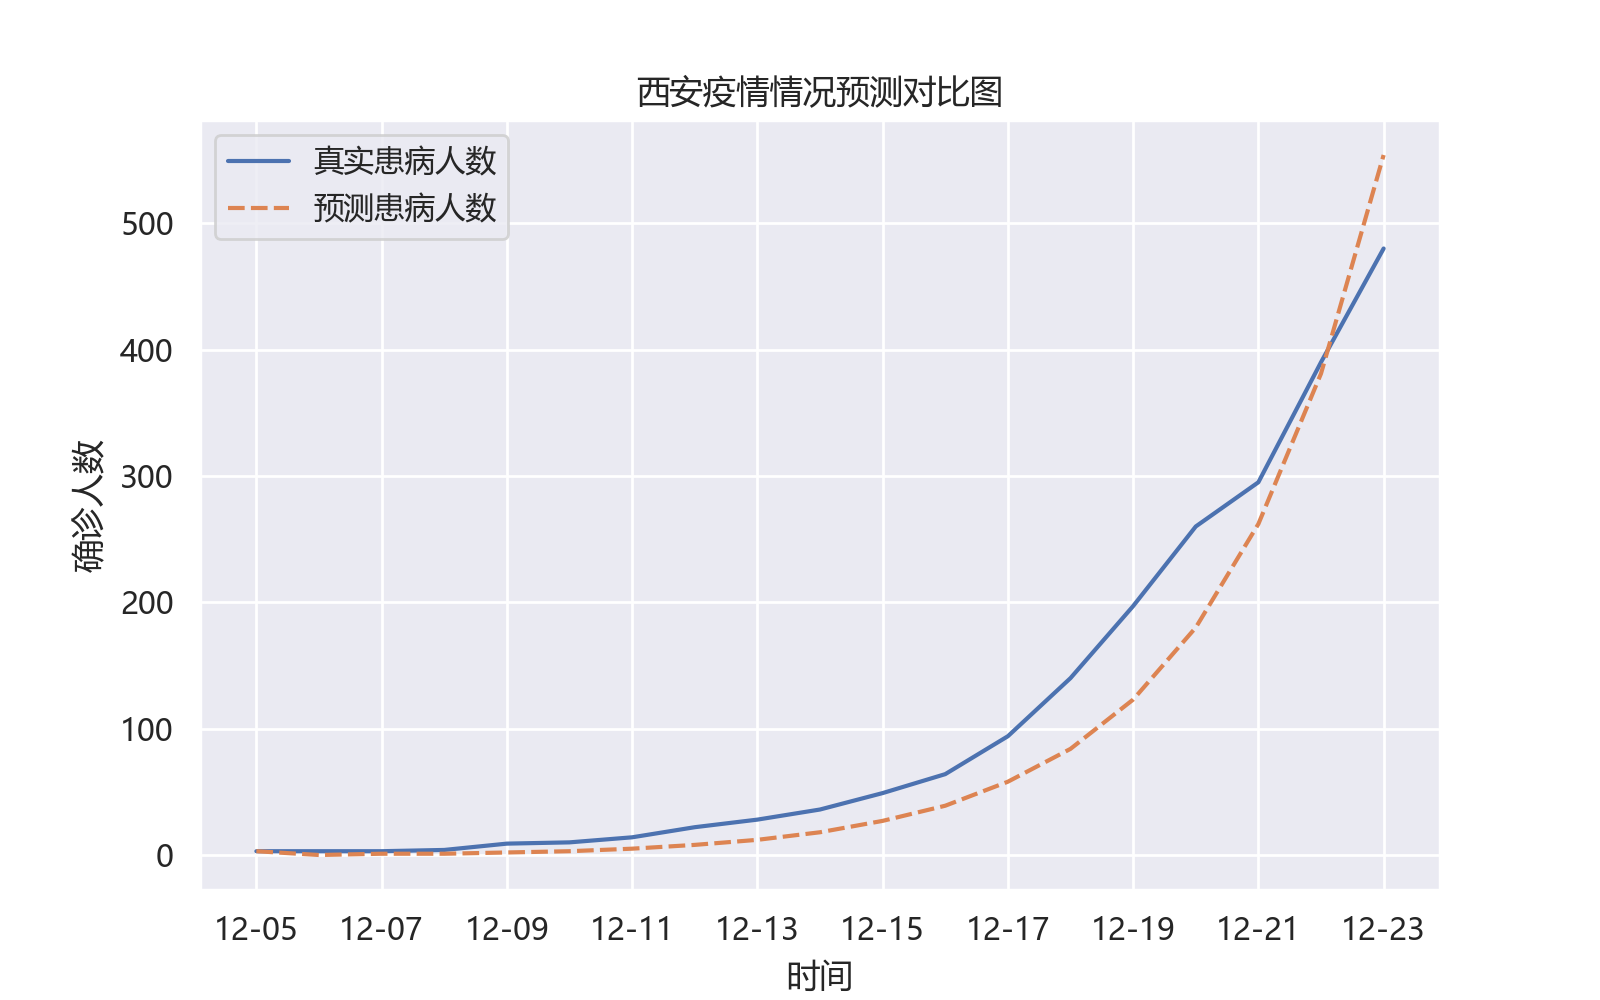
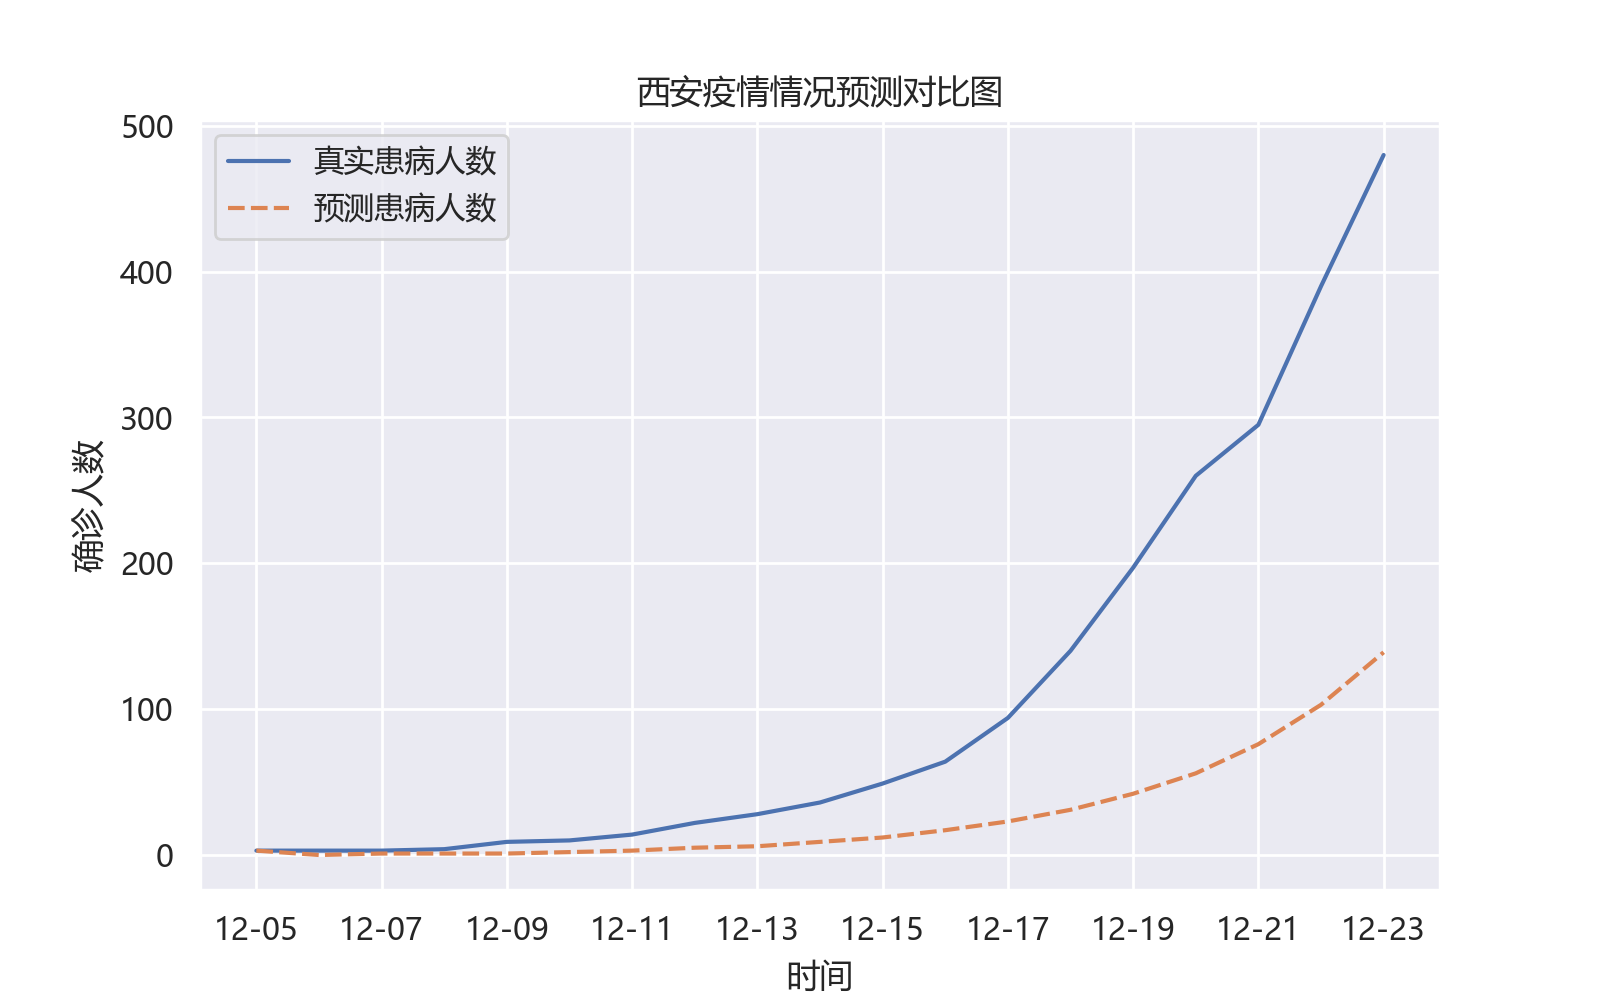
change loss function

diff --git a/model/SEIRQD.py b/model/SEIRQD.py
@@ -113,8 +113,10 @@ class SEIRQD:
     def train(self, beta_is=None, beta_ia=None):
         if beta_is is None or beta_ia is None:
             loss_val_min = float('inf')
-            for beta_is in np.arange(0.001, 0.400, 0.001):
+            for beta_is in np.arange(0.001, 0.300, 0.001):
                 for beta_ia in np.arange(0.001, 0.400, 0.001):
+                    if beta_ia * 1.3 < beta_is or beta_ia * 2 > beta_is:
+                        continue
                     loss_val = getLoss(copy.deepcopy(self.data), self.a, self.time, self.real_patients,
                                        r_is=self.r_is, r_ia=self.r_ia, beta_is=beta_is, beta_ia=beta_ia,
                                        t=self.t, alpha=self.alpha, i=self.i, c=self.c,
@@ -125,7 +127,7 @@ class SEIRQD:
                         loss_val_min = loss_val
                         self.beta_is = beta_is
                         self.beta_ia = beta_ia
-                        print(self.beta_is, self.beta_ia, loss_val)
+                        # print(self.beta_is, self.beta_ia, loss_val)
         else:
             self.beta_is = beta_is
             self.beta_ia = beta_ia
@@ -150,7 +152,7 @@ class SEIRQD:
         data = pd.DataFrame(data={
             "真实患病人数": self.data["real_patients"], "预测患病人数": self.data["predict_total"]
         }, index=index)
-        plt.title(self.data["city_name"]+'疫情情况预测对比图')
+        plt.title(self.data["city_name"] + '疫情情况预测对比图')
         plt.xlabel('时间')
         plt.ylabel('确诊人数')
         sns.lineplot(data=data)
@@ -161,14 +163,18 @@ class SEIRQD:
         ax.xaxis.set_major_formatter(date_format)
         plt.savefig('./data/result_{}.png'.format(self.data["city_name"]))
 
-    def loss(self):
-        loss_val = 0
-        # for num in range(len(self.real_patients)):
-        #     print(loss_val, np.sqrt(np.mean((self.getdata["predict_total"][num] - self.real_patients[num]) ** 2)))
-        #     loss_val = loss_val + np.sqrt(np.mean((self.getdata["predict_total"][num] - self.real_patients[num]) ** 2))
+    def saveResultAsExcel(self):
+        # todo 保存
+        plt.savefig('./data/result_{}.png'.format(self.data["city_name"]))
 
-        loss_val = np.sqrt(np.mean((self.data["predict_total"] - self.real_patients) ** 2))
-        return loss_val
+    def loss_huber(self):
+        # loss_val = np.sqrt(np.mean((self.data["predict_total"] - self.real_patients) ** 2))
+        true = self.data["predict_total"]
+        pred = self.real_patients
+        delta = 5
+        loss = np.where(np.abs(true - pred) < delta, 0.5 * ((true - pred) ** 2),
+                        delta * np.abs(true - pred) - 0.5 * (delta ** 2))
+        return np.sum(loss)
 
 
 def getLoss(data: dict, a: dict, time: dict, real_patients: dict,
@@ -181,4 +187,4 @@ def getLoss(data: dict, a: dict, time: dict, real_patients: dict,
                  theta_s=theta_s, theta_a=theta_a,
                  gamma_s1=gamma_s1, gamma_a1=gamma_a1, gamma_u=gamma_u, p=p, m=m)
     use.run()
-    return use.loss()
+    return use.loss_huber()

diff --git a/main.py b/main.py
@@ -50,24 +50,26 @@ real_patients = np.array(real['patients'])
 
 ans = None
 if city_name == 'xian':
-    # 0.001, 0.043
     ans = SEIRQD(seir_data_xian, population_shift, time, real_patients,
                  r_is=20.0, r_ia=40.0, beta_is=0.046, beta_ia=0.023,
-                 t=1.0, alpha=4.4, i=3.0, c=0.4,
+                 t=1.0, alpha=4.4, i=3.0, c=0.35,
                  theta_s=0.8, theta_a=0.6, gamma_s1=10.0, gamma_a1=10.0, gamma_u=10.0, p=0.15, m=0.064)
 elif city_name == 'shanghai':
-    # 0.002 0.0270
     ans = SEIRQD(seir_data_shanghai, population_shift, time, real_patients,
+
                  r_is=20.0, r_ia=40.0, beta_is=0.046, beta_ia=0.023,
-                 t=1.0, alpha=4.4, i=3.0, c=0.4,
+                 t=1.0, alpha=4, i=2.0, c=0.25,
                  theta_s=0.8, theta_a=0.6, gamma_s1=10.0, gamma_a1=10.0, gamma_u=10.0, p=0.15, m=0.064)
 else:
-    assert ans is None
+    FileNotFoundError()
 
+# beta_is : beta_ia = 1.3~2 : 1
 ans.train()
 
 # 看看结果
 ans.data["real_patients"] = [int(i) for i in real_patients]
 ans.data["predict_total"] = [int(i) for i in ans.data["predict_total"]]
-# print(ans.getdata)
 ans.drawGraph()
+# ans.saveResultAsExcel()
+
+# 绝对值和平方之前
